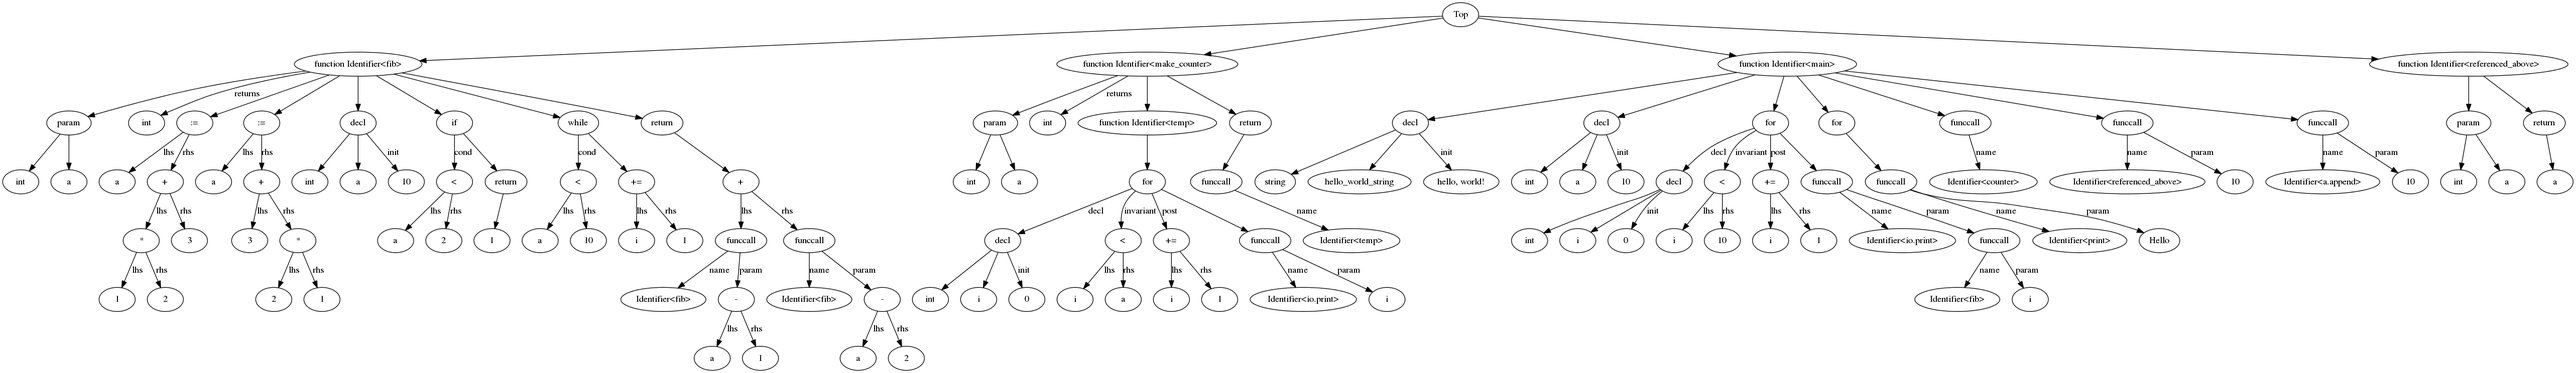
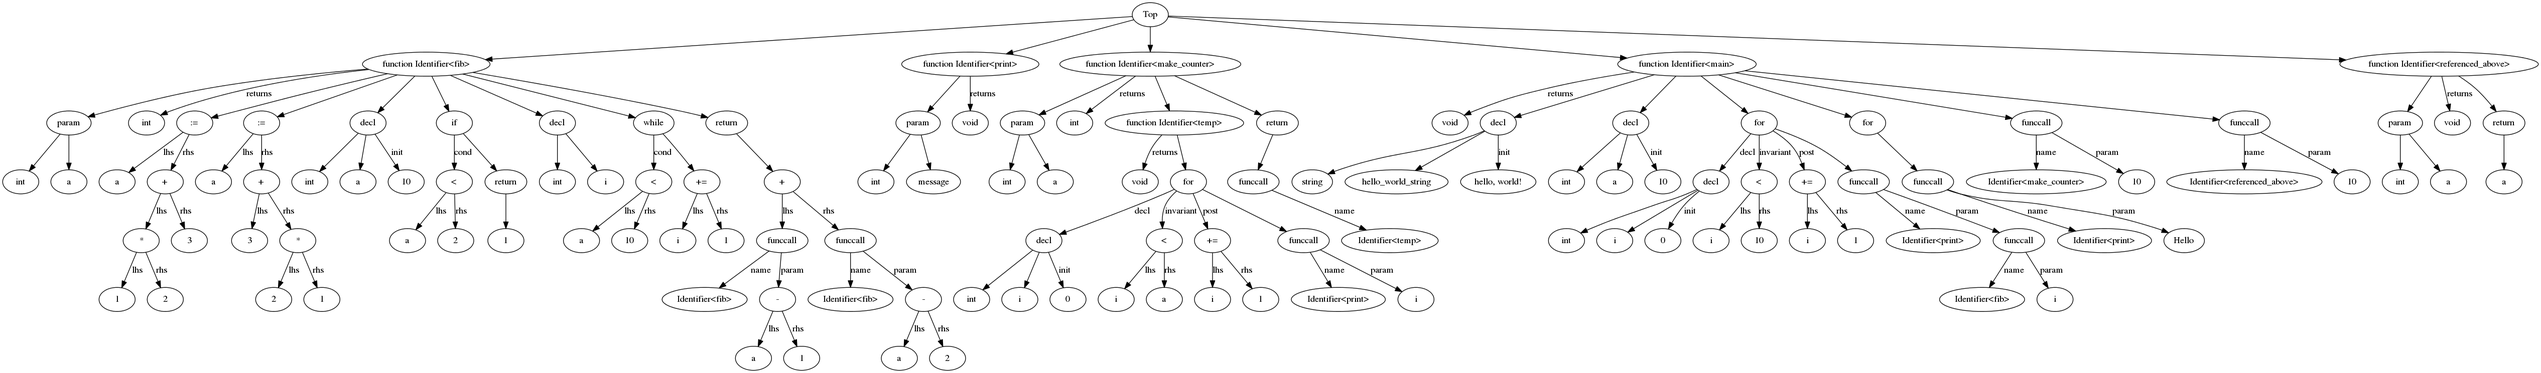
n

diff --git a/src/syntax_tree.py b/src/syntax_tree.py
@@ -1,6 +1,8 @@
 #!/usr/bin/env python2.7
+import functools
 import pydot
 import tac
+from symbol_table import *
 
 node_counter = 0
 def make_node(name, graph):
@@ -21,45 +23,21 @@ class SemaError(RuntimeError):
     IDENTIFIER_UNDEFINED    = 0
     IDENTIFIER_NOT_FUNCTION = 1
     FUNCTION_PARAM_MISMATCH = 2
+    FUNCTION_NOT_FOUND      = 3
     def __init__(self, message, errno):
         super(SemaError, self).__init__(message, errno)
 
-class SymbolTable(object):
-    """ SymbolTable contains the mapping of identifiers to types
-        it can contain point to one of
-        function or type
-    """
-    def __init__(self, parent = None):
-        self._data   = {}
-        self._parent = parent
-
-    def __getitem__(self, key):
+def semafunc(function):
+    @functools.wraps(function)
+    def wrap(*args, **kwargs):
         try:
-            return self._data[key]
-        except KeyError as e:
-            if self._parent:
-                return self._parent[key]
+            retval = function(*args, **kwargs)
+        except Exception as e:
+            if not hasattr(e, "ast"):
+                e.ast = args[0]
             raise
-
-    def __setitem__(self, key, value):
-        assert(isinstance(value, (Function, Type)))
-        assert(isinstance(key, Identifier))
-        if value in self._data:
-            raise InvalidParse("identifier {} already defined in this scope".format(value))
-        self._data[key] = value
-
-    def set_parent(self, parent):
-        assert isinstance(parent, SymbolTable)
-        self._parent = parent
-
-    def __str__(self):
-        out = ""
-        if self._parent:
-            out = str(self._parent)
-        out += str(self._data) + "\n"
-        return out
-
-_global_symbol_table = SymbolTable()
+        return retval 
+    return wrap
 
 class AST(object):
     def __init__(self):
@@ -82,6 +60,7 @@ class AST(object):
     def make_tables(self, table = None):
         raise NotImplementedError(type(self).__name__)
 
+    @semafunc
     def sema(self, data):
         raise NotImplementedError(type(self).__name__)
 
@@ -118,6 +97,7 @@ class Program(AST):
         for s in self._statements:
             s.make_tables(self._symbol_table)
 
+    @semafunc
     def sema(self, data = None):
         if not data:
             data = SemaData()
@@ -133,8 +113,12 @@ class StatementList(AST):
         for s in self._statements:
             s.make_tables(table)
 
+    def __iter__(self):
+        return iter(self._statements)
+
+    @semafunc
     def sema(self, data):
-        for s in self._statements:
+        for s in self:
             s.sema(data)
 
 class Function(AST):
@@ -170,6 +154,7 @@ class Function(AST):
         self._params.make_tables(table)
         self._statements.make_tables(table)
 
+    @semafunc
     def sema(self, data):
         temp = data._ret_type
         data._ret_type = self._ret_type
@@ -197,6 +182,7 @@ class If(AST):
         self._cond.make_tables(table)
         self._statements.make_tables(self._symbol_table)
 
+    @semafunc
     def sema(self, data):
         type0 = self._cond.sema(data)
         resolve_type(type0, "int")
@@ -219,6 +205,7 @@ class Return(AST):
         if self._statement:
             self._statement.make_tables(table)
 
+    @semafunc
     def sema(self, data):
         if self._statement:
             type0 = self._statement.sema(data)
@@ -257,6 +244,7 @@ class Op(AST):
         self._lhs.make_tables(table)
         self._rhs.make_tables(table)
 
+    @semafunc
     def sema(self, data):
         type0 = self._lhs.sema(data)
         type1 = self._rhs.sema(data)
@@ -272,6 +260,7 @@ class Import(AST):
         add_edge(graph, node0, node1)
         return node0
 
+    @semafunc
     def sema(self, data):
         return None
 
@@ -295,8 +284,13 @@ class FuncCall(AST):
         for s in self._params:
             s.make_tables(table)
 
+    @semafunc
     def sema(self, data):
-        function = self._symbol_table[self._identifier]
+        try:
+            function = self._symbol_table[self._identifier]
+        except KeyError:
+            print(self._identifier._start_token)
+            raise SemaError("function {} cannot be found.".format(self._identifier._strval), 3)
         if not isinstance(function, Function):
             raise SemaError("identifier {} is not a function".format(function), 1)
         if len(function._params) != len(self._params):
@@ -307,7 +301,12 @@ class FuncCall(AST):
 
 class Type(AST):
     def __init__(self, identifier):
-        self._identifier = identifier
+        if isinstance(identifier, str):
+            self._identifier = Identifier(identifier)
+        elif isinstance(identifier, Identifier):
+            self._identifier = identifier
+        else:
+            raise Exception("Type must be Identifier for str")
 
     def make_graph(self, graph):
         return self._identifier.make_graph(graph)
@@ -348,6 +347,7 @@ class For(AST):
             self._post.make_tables(self._symbol_table)
         self._statements.make_tables(self._symbol_table)
 
+    @semafunc
     def sema(self, data):
         if self._decl:
             type0 = self._decl.sema(data)
@@ -377,6 +377,7 @@ class While(AST):
         self._cond.make_tables(table)
         self._statements.make_tables(self._symbol_table)
 
+    @semafunc
     def sema(self, data):
         type0 = self._cond.sema(data)
         resolve_type(type0, "int")
@@ -404,6 +405,7 @@ class Decl(AST):
         self._symbol_table = table
         table[self._var] = self._type
 
+    @semafunc
     def sema(self, data):
         if self._expr:
             type0 = self._expr.sema(data)
@@ -453,6 +455,7 @@ class Identifier(AST):
     def __hash__(self):
         return self._strval.__hash__()
 
+    @semafunc
     def sema(self, data):
         try:
             return self._symbol_table[self]
@@ -471,6 +474,9 @@ class Literal(AST):
     def make_tables(self, table):
         self._symbol_table = table
 
+    def sema(self, data):
+        pass
+
 class String(Literal):
     def __init__(self, value):
         super(String, self).__init__(value)
@@ -483,6 +489,7 @@ class Integer(Number):
     def __init__(self, value):
         super(Integer, self).__init__(value)
 
+    @semafunc
     def sema(self, data):
         return "int"
 
@@ -490,5 +497,7 @@ class Float(Number):
     def __init__(self, value):
         super(Float, self).__init__(value)
 
+    @semafunc
     def sema(self, data):
         return "int"
+

diff --git a/src/symbol_table.py b/src/symbol_table.py
@@ -1,0 +1,59 @@
+#!/usr/bin/env python2.7
+import syntax_tree as ast
+
+_global_symbol_table = None
+
+class SymbolTable(object):
+    """ SymbolTable contains the mapping of identifiers to types
+        it can contain point to one of
+        function or type
+    """
+    def __init__(self, parent = None):
+        #TODO: remove this ugly hack
+        global _global_symbol_table
+        init_global_symbol_table()
+
+        self._data   = {}
+        self._parent = parent if parent else _global_symbol_table
+
+
+    def __getitem__(self, key):
+        try:
+            return self._data[key]
+        except KeyError as e:
+            if self._parent:
+                return self._parent[key]
+            raise
+
+    def __setitem__(self, key, value):
+        assert(isinstance(value, (ast.Function, ast.Type)))
+        assert(isinstance(key, ast.Identifier))
+        if value in self._data:
+            raise InvalidParse("identifier {} already defined in this scope".format(value))
+        self._data[key] = value
+
+    def set_parent(self, parent):
+        assert isinstance(parent, SymbolTable)
+        self._parent = parent
+
+    def __str__(self):
+        out = ""
+        if self._parent:
+            out = str(self._parent)
+        out += str(self._data) + "\n"
+        return out
+
+
+def dummy_function(name):
+    return ast.Function(ast.Identifier(name),
+                        ast.ParamList(),
+                        ast.Type(ast.Identifier("void")),
+                        ast.StatementList())
+
+def init_global_symbol_table():
+    global _global_symbol_table
+    if not _global_symbol_table:
+        _global_symbol_table = True
+        _global_symbol_table = SymbolTable()
+        _global_symbol_table._parent = None
+        _global_symbol_table[ast.Identifier("print")] = dummy_function("print")

diff --git a/test.py b/test.py
@@ -1,5 +1,6 @@
 #!/usr/bin/env python2.7
 import unittest
+import types
 from src             import lexer
 from src.parse       import *
 from src.syntax_tree import *
@@ -125,6 +126,17 @@ class TestParser(unittest.TestCase):
         }"""]
         self._test_generic(data, parse_function, ast.Function)
 
+    def test_function_param_list(self):
+        data = ["function a(){}"]
+        for d in data:
+            parser = Parser(d)
+            func = parse_function(parser)
+            self.assertIsInstance(func, ast.Function)
+            self.assertIsInstance(func._name,      ast.Identifier)
+            self.assertIsInstance(func._params,    ast.ParamList)
+            self.assertIsInstance(func._ret_type,  ast.Type)
+            self.assertIsInstance(func._statements,ast.StatementList)
+
     def test_func_call(self):
         data = ["a()", "a(1)", "a(1, 2, 3)"]
         self._test_generic(data, parse_func_call, ast.FuncCall)
@@ -138,7 +150,7 @@ class TestParser(unittest.TestCase):
         self._test_generic(data, parse_return, ast.Return)
 
     def test_program(self):
-        data = ["function a(){}"]
+        data = ["", "function a(){}"]
         self._test_generic(data, parse_program, ast.Program)
 
     @unittest.expectedFailure

diff --git a/src/parse.py b/src/parse.py
@@ -66,7 +66,7 @@ def parsefunc(func):
     def wrap(parser):
         global indent
         pos = parser.get_pos()
-        start_token = parser[pos]
+        start_token = parser[pos] if pos >= 0 else None
         if verbose:
             print("\t" * indent + "enter: " + func.__name__)
         indent += 1
@@ -76,7 +76,8 @@ def parsefunc(func):
             if verbose:
                 print("\t" * indent + "OK   : " + func.__name__)
             retval._start_token = start_token
-            retval._end_token   = parser[parser.get_pos()]
+            pos = parser.get_pos()
+            retval._end_token   = parser[pos] if pos >= 1 else None
             return retval
         except InvalidParse as e:
             if e._function == None:
@@ -330,7 +331,6 @@ def parse_statement_list(parser):
 
 @parsefunc
 def parse_function(parser):
-    ret_type = None
     # function declaration 
     parser.accept("function")
     name = parse_identifier(parser)
@@ -342,6 +342,8 @@ def parse_function(parser):
         if parser.peek("->"):
             parser.next()
             ret_type = parse_type(parser)
+        else:
+            ret_type = ast.Type("void")
         parser.consume("\n")
         # start of function body
         parser.accept("{")

diff --git a/src/compile.py b/src/compile.py
@@ -23,6 +23,13 @@ def main(*args, **kwargs):
         program.sema()
     except ast.SemaError as e:
         print(e)
+        print(e.ast._end_token.highlight(5, 5))
+        raise
+    except KeyError as e:
+        print(e)
+        #print(e.ast._start_token.highlight(5, 5))
+        print(e.ast._end_token.highlight(5, 5))
+        raise
     graph = program.output_graph("out.png")
 
 if __name__ == "__main__":
